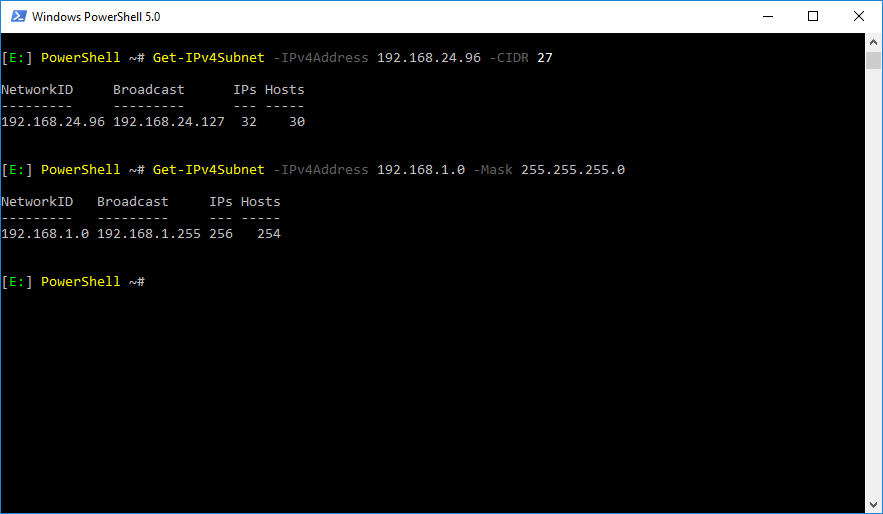
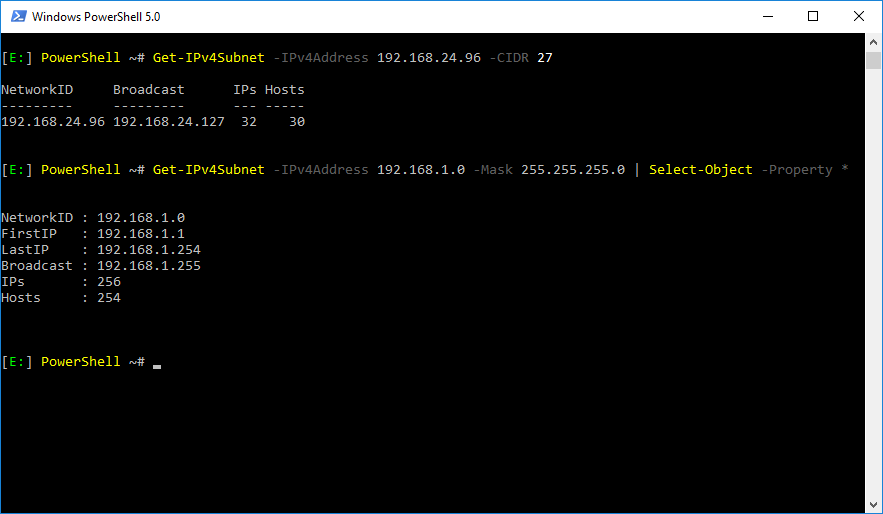
PR from @mschaepers improved and documented

diff --git a/Documentation/Function/Get-IPv4Subnet.README.md b/Documentation/Function/Get-IPv4Subnet.README.md
@@ -32,9 +32,12 @@ NetworkID     Broadcast      IPs Hosts
 ## Example 2
 
 ```powershell
-PS> Get-IPv4Subnet -IPv4Address 192.168.1.0 -Mask 255.255.255.0
+PS> Get-IPv4Subnet -IPv4Address 192.168.1.0 -Mask 255.255.255.0 | Select-Object -Property *
 
-NetworkID   Broadcast     IPs Hosts
----------   ---------     --- -----
-192.168.1.0 192.168.1.255 256   254
+NetworkID : 192.168.1.0
+FirstIP   : 192.168.1.1
+LastIP    : 192.168.1.254
+Broadcast : 192.168.1.255
+IPs       : 256
+Hosts     : 254
 ```
